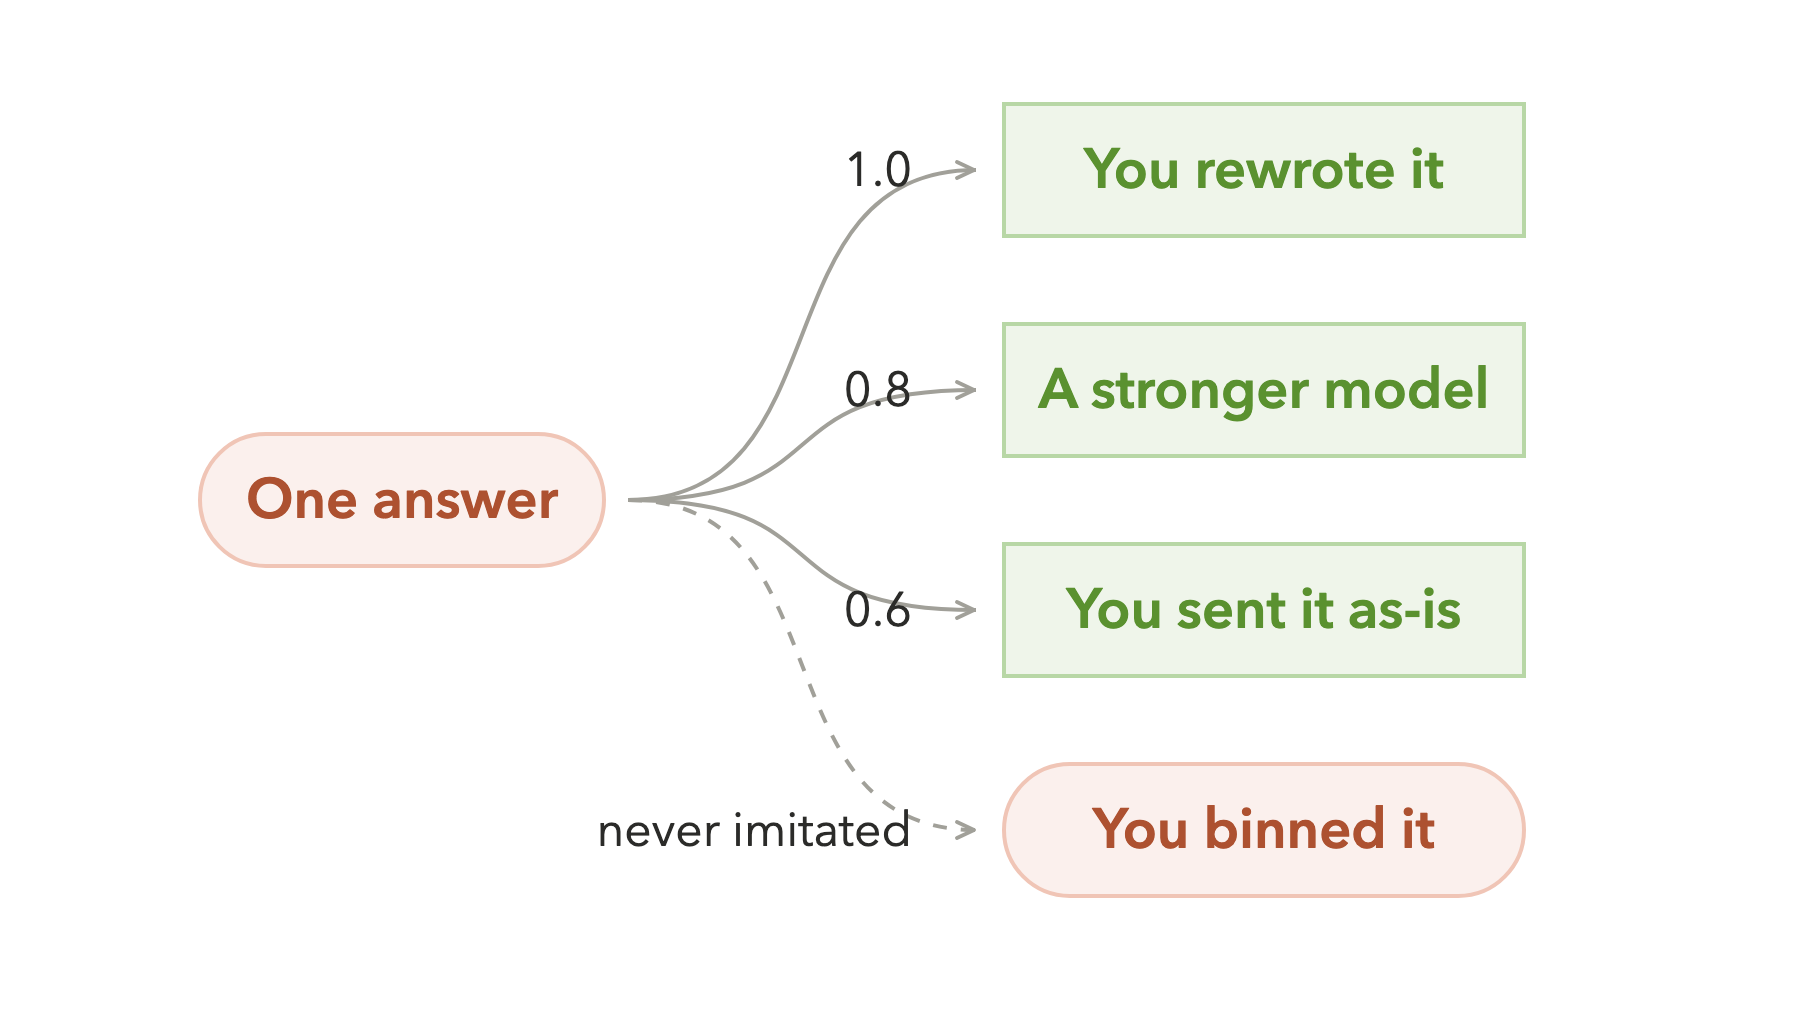
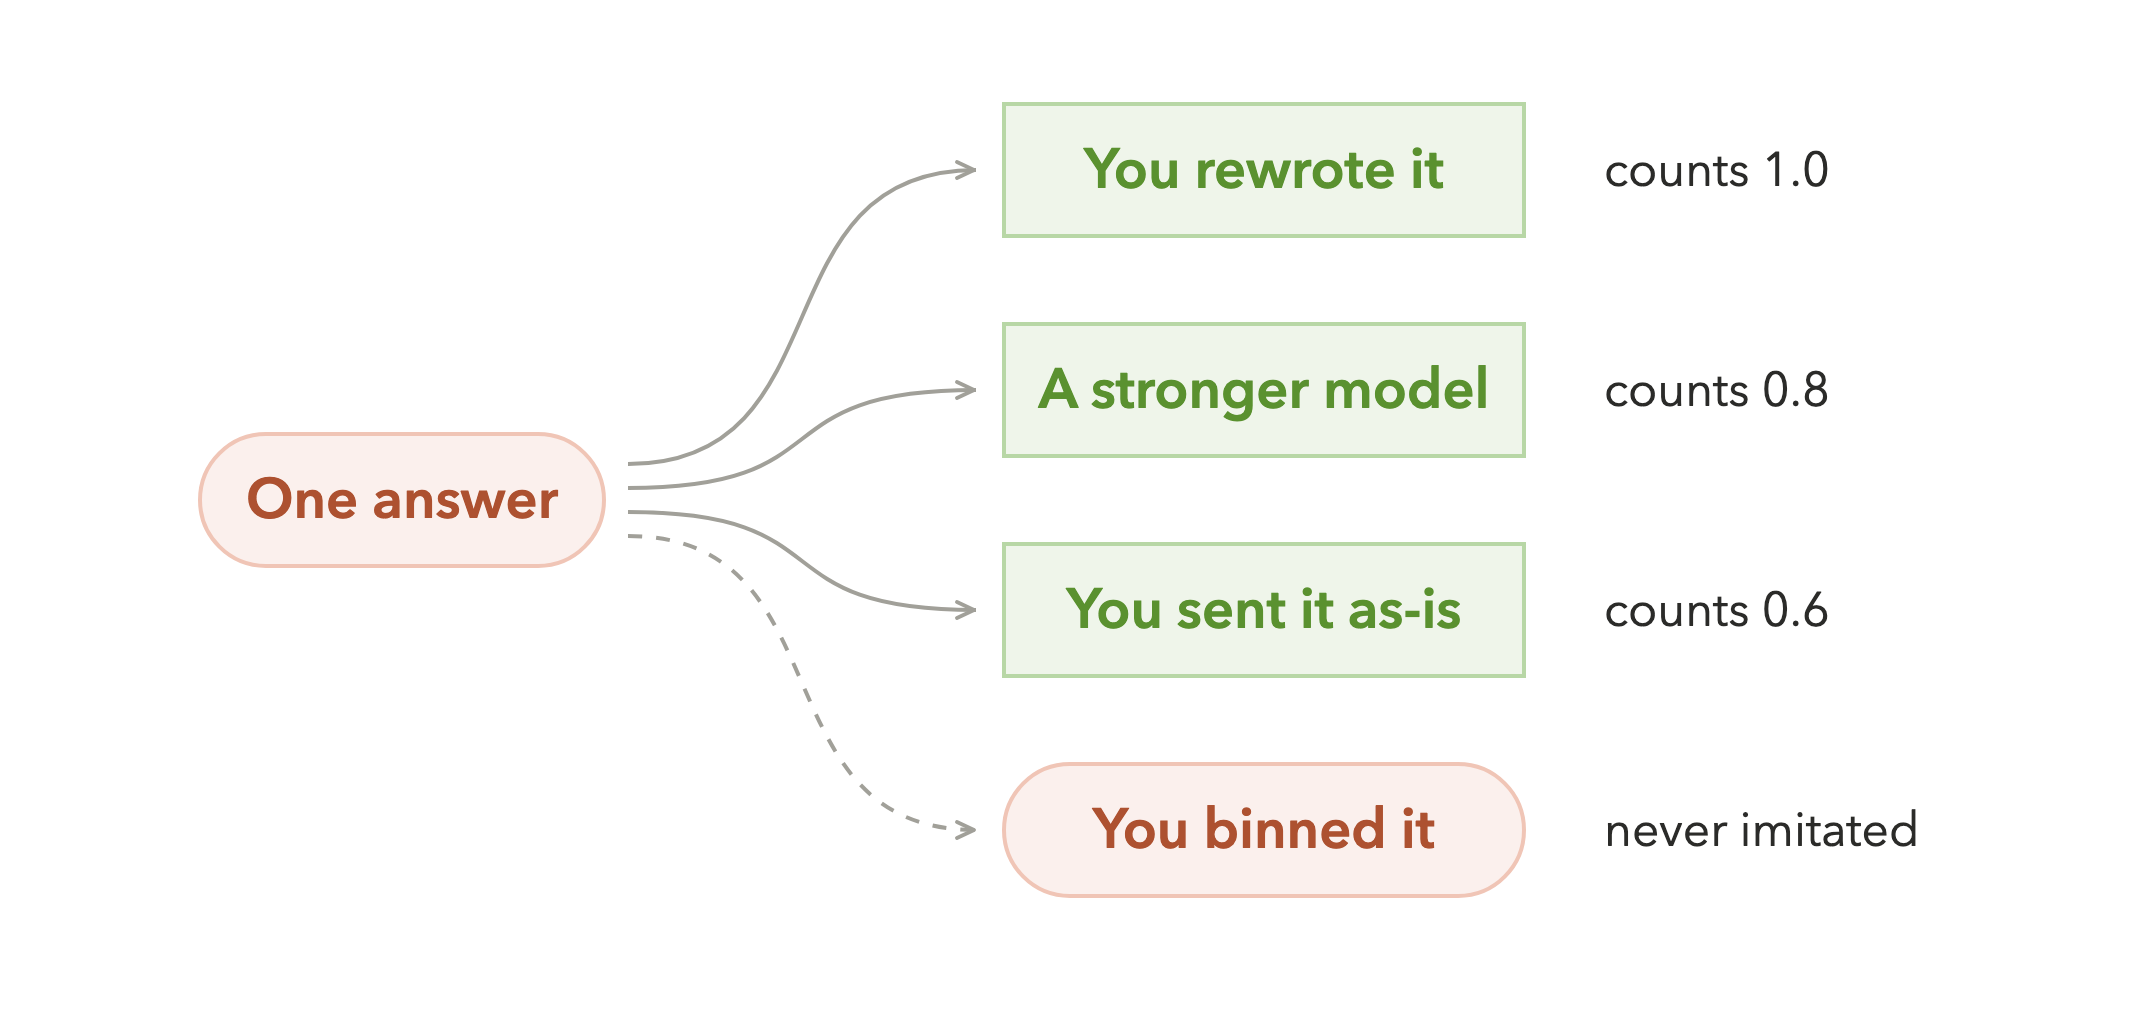
docs: cut the design rationale out of the READMEs; spec the fleet on the front page
Several passages explained why a word or a layout was chosen rather than saying
what the product does — notes-to-self that belong in a commit message or
STYLE.md, not on a page someone reads to decide whether to try this. Cut: the
paragraph justifying "compounding" over "domain-specific" in the flywheel hub,
the aside on why the second loop's station reads "Expert models" against the
plain "Models", "it is drawn as a flywheel rather than a pipeline because",
"be precise about what collapsed, though", and a line telling the reader the
numbers in the table are there to be checked. The substance each carried is
kept; only the commentary on our own choices is gone.

The honest disclosures stay and are reworded to face the reader: group_size 8
is still named as TRL's default that this repo ships unswept.

Flywheel: "Superhuman ability" becomes "Productivity". Every other station is a
concrete noun and a claim sat badly among them; it is also what a buyer calls
this. Not "Employee productivity" — Employees is the next station along, so the
adjacency already says whose.

fig-earns: the weights move from the arrow convergence, where they were
unreadable, to a column past the boxes, and each reads "counts 1.0" so the
column needs no header. Its four tails now leave their own points down the
stadium's edge — from one pixel they formed a shape that read as an arrowhead
pointing back into the answer. Verified against train/capture.py: 1.0 / 0.8 /
[…]

diff --git a/docs/build_figures.py b/docs/build_figures.py
@@ -26,16 +26,36 @@ FGAP = 26        # between machines: close enough that the row reads as one stri
 # and home-grid ordered it differently again. A reader who meets these machines
 # on the front page should recognise the same five, in the same order, in every
 # later figure; three spellings of one fleet reads as three different fleets.
-FLEET = ("MacBook Pro", "Mac Studio", "Mac mini", "RTX 6000", "RTX 5090")
+# Engine, memory and served model belong here too, so the roll-up on the front
+# page can be DERIVED rather than typed — a hand-typed total is a number that
+# goes stale the first time this tuple changes.
+FLEET = (
+    # name           engine     GB   the model it serves
+    ("MacBook Pro",  "MLX",      64, "Qwen3-30B-A3B"),
+    ("Mac Studio",   "MLX",     256, "MiniMax-M2"),
+    ("Mac mini",     "Ollama",   24, "Gemma 3 12B"),
+    ("RTX 6000",     "vLLM",     48, "Qwen3-32B"),
+    ("RTX 5090",     "vLLM",     32, "Gemma 3 27B"),
+)
+NAMES = tuple(name for name, *_ in FLEET)
 
 
-def fleet_row(f, page_w, y):
-    """Draw the fleet centred on the page. Returns each box's centre x."""
+def fleet_row(f, page_w, y, detail=False):
+    """Draw the fleet centred on the page. Returns each box's centre x.
+
+    `detail` hangs the engine, the memory and the served model under each box.
+    Only the front page wants them: there the fleet IS the subject, and a bare
+    row of product names does not say what makes one machine different from the
+    next. Inside the training figures the same row is scenery for an argument
+    about placement, and three extra lines per box would drown it.
+    """
     span = len(FLEET) * MW + (len(FLEET) - 1) * FGAP
     x0 = (page_w - span) / 2
     xs = [x0 + MW / 2 + i * (MW + FGAP) for i in range(len(FLEET))]
-    for cx, name in zip(xs, FLEET):
+    for cx, (name, engine, gb, model) in zip(xs, FLEET):
         f.box(cx, y, name, w=MW)
+        if detail:
+            f.label(cx, y + H / 2 + 38, f"{engine} · {gb} GB", model)
     return xs
 
 
@@ -133,7 +153,7 @@ mcx = gcx + gw / 2 + GAP + MW / 2
 # free machine, and five rows would make the fleet the subject instead. Names
 # come from FLEET so it is visibly a subset, never a different set.
 rows = [y - 120, y, y + 120]
-for ry, name in zip(rows, [FLEET[0], FLEET[1], FLEET[3]]):
+for ry, name in zip(rows, [NAMES[0], NAMES[1], NAMES[3]]):
     f.box(mcx, ry, name, w=MW)
     curve = 0 if ry == y else 64
     off = 14 if ry > y else -14 if ry < y else 0
@@ -180,20 +200,27 @@ tcx = M + tw / 2
 f.term(tcx, cy, "One answer", w=tw)
 BW = 260
 bcx = tcx + tw / 2 + 200 + BW / 2
-rows = [(cy - 165, "You rewrote it", "1.0", False),
-        (cy - 55, "A stronger model", "0.8", False),
-        (cy + 55, "You sent it as-is", "0.6", False),
+# The weights are train/capture.py's, not illustrative: edited 1.0, teacher 0.8,
+# accepted 0.6, discarded stored but never used as a target.
+rows = [(cy - 165, "You rewrote it", "counts 1.0", False),
+        (cy - 55, "A stronger model", "counts 0.8", False),
+        (cy + 55, "You sent it as-is", "counts 0.6", False),
         (cy + 165, "You binned it", "never imitated", True)]
-for ry, label, weight, dashed in rows:
+for i, (ry, label, weight, dashed) in enumerate(rows):
     if dashed:
         f.term(bcx, ry, label, w=BW)
     else:
         f.box(bcx, ry, label, w=BW)
-    # every arrow leaves the same point; the curve alone separates them, as in
-    # the article's parallelisation figure
-    f.arrow(tcx + tw / 2 + 12, cy, bcx - BW / 2 - 14, ry, dashed=dashed, curve=110)
-    # the weight sits against its own row, never floating between two of them
-    f.label(bcx - BW / 2 - 46, ry + 8, weight, anchor="end")
+    # Each leaves its own point down the stadium's edge. All four from one pixel
+    # made a knot at the origin that read as an arrowhead pointing back INTO the
+    # answer — the exact opposite of the direction the figure means.
+    f.arrow(tcx + tw / 2 + 12, cy - 18 + i * 12, bcx - BW / 2 - 14, ry,
+            dashed=dashed, curve=110)
+    # Past the boxes, not before them. Four arrows converge on the left edge and
+    # a number parked in that convergence is unreadable at any size; to the right
+    # the four stack into a column that scans on its own, and "counts" on each
+    # row means the column needs no header to say what it measures.
+    f.label(bcx + BW / 2 + 40, ry + 8, weight, anchor="start")
 f.write(f"{OUT}/fig-earns.svg")
 
 # ------------------------------------------------------- train-architecture
@@ -278,8 +305,10 @@ f = Fig(1700, 1180)
 CX, CY, R = 800, 680, 400
 INK = ARROW   # grey, never black — docs/STYLE.md section 1
 
-# "Ability", not "work": the superhuman part belongs to the person. "Superhuman
-# work" can be read as the AI doing the work, which is the opposite of the claim.
+# "Productivity", not "Superhuman ability": every other station on this wheel is
+# a concrete noun, and a claim sits badly among them. It is also what a buyer
+# actually calls this. Not "Employee productivity" — Employees is the very next
+# station, so the adjacency already says whose.
 #
 # Nouns, not quantities. The reference says Sellers, Selection, Traffic — never
 # "more sellers" — because a flywheel already means "more of this drives more of
@@ -288,7 +317,7 @@ INK = ARROW   # grey, never black — docs/STYLE.md section 1
 # what you already own, purple is the intelligence layer, coral is the human edge.
 f.wheel(CX, CY, R, [
     ("Models", PURPLE_TEXT),
-    ("Superhuman ability", CORAL_TEXT),
+    ("Productivity", CORAL_TEXT),
     ("Employees", CORAL_TEXT),
     ("Computers", GREEN_TEXT),
 ], hub_r=240, hub_lines=("COMPOUNDING", "INTELLIGENCE"), fs=CORE_FS, start=0,
@@ -386,15 +415,20 @@ for i, a in enumerate(APPS):
     f.term(cx, app_y, a, w=aw4)
     app_x.append(cx)
 
-gy = 344
-f.panel(M, 1660 - M, gy, "Your grid", ["Inference", "Training"])
+gy = 372
+PH = 240
+# Derived, never typed: these three go stale the moment FLEET changes otherwise.
+STATS = [f"{len(FLEET)} nodes",
+         f"{len({model for *_, model in FLEET})} models",
+         f"{sum(gb for _, _, gb, _ in FLEET)} GB GPU memory"]
+f.panel(M, 1660 - M, gy, "Your grid", STATS, ["Inference", "Training"], h=PH)
 for cx in app_x:
-    f.arrow(cx, gy - 176 / 2 - 12, cx, app_y + H / 2 + 14)
+    f.arrow(cx, gy - PH / 2 - 12, cx, app_y + H / 2 + 14)
 
-mach_y = 624
-for cx in fleet_row(f, 1660, mach_y):
-    f.arrow(cx, mach_y - H / 2 - 12, cx, gy + 176 / 2 + 14)
-f.label(1660 / 2, mach_y + 78, "MLX · Ollama · vLLM · LM Studio · ComfyUI — the engines you already run")
+mach_y = 650
+for cx in fleet_row(f, 1660, mach_y, detail=True):
+    f.arrow(cx, mach_y - H / 2 - 12, cx, gy + PH / 2 + 14)
+f.label(1660 / 2, mach_y + H / 2 + 128, "each machine keeps the engine it already runs")
 f.write(f"{OUT}/home-grid.svg")
 
 print("wrote nine figures")

diff --git a/docs/figs.py b/docs/figs.py
@@ -130,30 +130,44 @@ class Fig:
             f'font-size="{NODE_FS}" font-weight="600">{label}</text>')
         self._saw(x2, cy + H / 2)
 
-    def panel(self, x1, x2, cy, title, halves, h=176):
-        """One thing with two halves inside it.
+    def panel(self, x1, x2, cy, title, stats, halves, h=240):
+        """One thing with two halves inside it, and what it knows about itself.
 
         The only container in the set, and it earns being one: the grid is a
         single address, and serving and training are two jobs it does — drawing
         them as three peers would say there are three things.
+
+        The title and its roll-up sit left; the halves take every pixel that is
+        left over, because the halves are the product and the roll-up is a
+        caption on it. Centring a title over two small boxes made the container
+        look like the subject — it is not, the two jobs it does are.
         """
+        top = cy - h / 2
         self.parts.append(
-            f'<rect x="{x1:.0f}" y="{cy - h / 2:.0f}" width="{x2 - x1:.0f}" height="{h}" '
+            f'<rect x="{x1:.0f}" y="{top:.0f}" width="{x2 - x1:.0f}" height="{h}" '
             f'fill="{PURPLE_FILL}" stroke="{PURPLE_LINE}" stroke-width="{BORDER}"/>')
+
+        lx = x1 + 54
         self.parts.append(
-            f'<text x="{(x1 + x2) / 2:.0f}" y="{cy - h / 2 + 42:.0f}" text-anchor="middle" '
-            f'fill="{PURPLE_TEXT}" font-size="{NODE_FS}" font-weight="700">{title}</text>')
-        iw = max(box_w(t) for t in halves) + 96
-        gap = 44
-        left = (x1 + x2) / 2 - (len(halves) * iw + (len(halves) - 1) * gap) / 2
+            f'<text x="{lx:.0f}" y="{top + 68:.0f}" fill="{PURPLE_TEXT}" '
+            f'font-size="{NODE_FS}" font-weight="700">{title}</text>')
+        for i, line in enumerate(stats):
+            self.parts.append(
+                f'<text x="{lx:.0f}" y="{top + 118 + i * 34:.0f}" fill="{LABEL_TEXT}" '
+                f'font-size="{LABEL_FS}">{line}</text>')
+
+        lw = max([text_w(title, NODE_FS)] + [text_w(s, LABEL_FS) for s in stats])
+        bx0, bx1, gap = lx + lw + 86, x2 - 54, 40
+        bw = (bx1 - bx0 - gap * (len(halves) - 1)) / len(halves)
+        bh = h - 76
         for i, t in enumerate(halves):
-            cx = left + iw / 2 + i * (iw + gap)
+            cx = bx0 + bw / 2 + i * (bw + gap)
             self.parts.append(
-                f'<rect x="{cx - iw / 2:.0f}" y="{cy + 6:.0f}" width="{iw:.0f}" height="{H}" '
-                f'fill="#fff" stroke="{PURPLE_LINE}" stroke-width="{BORDER}"/>')
+                f'<rect x="{cx - bw / 2:.0f}" y="{cy - bh / 2:.0f}" width="{bw:.0f}" '
+                f'height="{bh:.0f}" fill="#fff" stroke="{PURPLE_LINE}" stroke-width="{BORDER}"/>')
             self.parts.append(
-                f'<text x="{cx:.0f}" y="{cy + 6 + 42:.0f}" text-anchor="middle" '
-                f'fill="{PURPLE_TEXT}" font-size="{NODE_FS}" font-weight="600">{t}</text>')
+                f'<text x="{cx:.0f}" y="{cy + 13:.0f}" text-anchor="middle" '
+                f'fill="{PURPLE_TEXT}" font-size="{CORE_FS}" font-weight="700">{t}</text>')
         self._saw(x2, cy + h / 2)
 
     def axis(self, x1, x2, y, ticks):

diff --git a/train/README.md b/train/README.md
@@ -15,12 +15,12 @@ information was never on the internet to begin with. It is sitting in your syste
 Domain-specific intelligence is what is on the other side of that gap: a small model that has seen
 how your work actually goes — **an expert in your work rather than a generalist**. It is worse than
 the frontier at everything and better than the frontier at your thing, which is the trade you want,
-because most of what your team does all day is your thing. The weights are yours, so nobody deprecates them, reprices them or swaps them out from
-under you. And the data they learned from never left the building.
+because most of what your team does all day is your thing. The weights are yours, so nobody
+deprecates them, reprices them or swaps them out from under you. And the data they learned from
+never left the building.
 
-That is the *why*. The rest of this page is the *how*, and it is drawn as a flywheel rather than a
-pipeline because an expert you own, unlike a model you rent, **compounds** — every night's work is
-the next night's training set.
+That is the *why*. The rest of this page is the *how*. An expert you own, unlike a model you rent,
+**compounds** — every night's work is the next night's training set.
 
 ## How the training plane works
 
@@ -54,10 +54,10 @@ three is most of the intuition. Here is the same loop with our names on it:
 
 **1 — The episode is short.** Classic RL imagines a long trajectory: move, observe, move again. For
 most business tasks there is one prompt, one answer, and **one reward at the end** — no intermediate
-scoring to design, and nothing to shape. Be precise about what collapsed, though: the *scoring* did,
-not the decision. The model still chooses token by token and the gradient still lands per token —
-TRL gives every token in a completion that completion's own group-relative advantage. Long
-trajectories return the moment agents use tools, which is why the design leaves room for them.
+scoring to design, and nothing to shape. What collapsed is the *scoring*, not the decision. The
+model still chooses token by token and the gradient still lands per token — TRL gives every token
+in a completion that completion's own group-relative advantage. Long trajectories return the moment
+agents use tools, which is why the design leaves room for them.
 
 **2 — The environment is your data plus a check.** There is no simulator to build. The environment
 is a ticket from last month and how it actually resolved; a lead and whether it closed; a code
@@ -81,10 +81,10 @@ maths, is the hard part of this product. You will spend your time on the grader.
 ## 3. Sampling is 70–82% of the work, and it fans out perfectly
 
 Count the compute in that step. Writing eight attempts runs the model eight times; adjusting the
-weights happens once. (Eight is `group_size`, and it is TRL's default rather than a number we
-derived — the algorithm only requires two, since the baseline is the group's own mean. It is the
-whole cost dial, and nobody has swept it here.) Profiling across the field puts sampling at 70–82% of the total, and sampling
-is plain inference — which a grid already spreads across machines.
+weights happens once. (Eight is `group_size` — TRL's default. The algorithm needs only two, since
+the baseline is the group's own mean, and it is the whole cost dial; this repo ships that default
+unswept.) Profiling across the field puts sampling at 70–82% of the total, and sampling is plain
+inference — which a grid already spreads across machines.
 
 Our own runs come out higher. Every run now times its two phases and writes the split into its
 `summary.json`, and on an M2 Max sampling is **86–92%** of the work a grid could divide — 48s of
@@ -166,8 +166,7 @@ suite. Score is on **held-out work the model never trained on**, re-measured eve
 | two machines | every 5 steps | 40 | 0.188 → 0.261 | 5.2 min | under the bar |
 | two machines | **never** | 30 | 0.188 → 0.188 | 3.6 min | learned nothing |
 
-Two of those readings are in the heading, and the numbers are there to be checked: the two-machine
-run finished ahead of the single-machine one, and the same topology learned roughly eight times
+The two-machine run finished ahead of the single-machine one, and the same topology learned roughly eight times
 less per step at a five-step cadence. The last row is the one to remember. With no push at all the
 line is perfectly flat — and a perfectly flat line is what a broken training loop looks like from
 outside.
@@ -306,27 +305,21 @@ curl $GRID/v1/feedback -d '{"request_id":"…","verdict":"edited","final_text":"
 ## The flywheel
 
 <p align="center">
-<img src="../docs/fig-flywheel.png" width="820" alt="A flywheel around a hub reading COMPOUNDING INTELLIGENCE. The ring turns clockwise from the top: computers, models, superhuman ability, employees, and back to computers. Computers has two outgoing arrows, marked serve and train. A second loop forks off the wheel at employees, marked connect, and runs over the top — your systems, then your data, then expert models — before rejoining the wheel at models.">
+<img src="../docs/fig-flywheel.png" width="820" alt="A flywheel around a hub reading COMPOUNDING INTELLIGENCE. The ring turns clockwise from the top: computers, models, productivity, employees, and back to computers. Computers has two outgoing arrows, marked serve and train. A second loop forks off the wheel at employees, marked connect, and runs over the top — your systems, then your data, then expert models — before rejoining the wheel at models.">
 </p>
 
-The hub says *compounding* rather than *domain-specific* for a reason worth stating: a wheel
-turning around a static noun does not say the noun is growing. What compounds is the intelligence
-specific to you — and *that* is on the rim, at the station where those models get made.
-
-**The ring is the whole business in four words.** Computers run models. Models give people
-superhuman ability. That ability is what a company grows on, so it brings employees. Employees
-arrive carrying the next computers.
-Capacity grows with the team rather than with the bill, and that is the part a cloud product
-structurally cannot copy — its capacity is rented, and this walks in the door.
+**The ring is the whole business in four words.** Computers run models. Models make people more
+productive. Productivity is what a company grows on, so it brings employees. Employees arrive
+carrying the next computers. Capacity grows with the team rather than with the bill — the part a
+cloud product structurally cannot copy, because its capacity is rented and this walks in the door.
 
 **The second loop is the way to more models that buys no hardware.** It leaves from the employees,
 because they are the ones who connect a system — the cheapest thing on this page, and what turns a
-general model into one that knows your tickets, your repos, your deals. That data is not one undifferentiated pile — it arrives sorted by the job
-that produced it, which is what makes a model *for that job* possible rather than one model asked
-to be good at everything. Those are models too — which is why the loop rejoins the wheel at
-models, and why that station reads **Expert models** against the plain **Models** on the rim: not a
-different kind of thing, a narrower and better one. What it skips is the single station that needs
-somebody to buy something.
+general model into one that knows your tickets, your repos, your deals. That data is not one
+undifferentiated pile: it arrives sorted by the job that produced it, which is what makes a model
+*for that job* possible rather than one model asked to be good at everything. Expert models are
+models too, so the loop rejoins the wheel where the plain ones are — narrower and better, not a
+different kind of thing. What it skips is the single station that needs somebody to buy something.
 
 ## The code
 

diff --git a/README.md b/README.md
@@ -11,7 +11,7 @@
 
 [**Quickstart**](#quickstart) · [Inference](#inference) · [Training](#training) · [How it works](#how-it-works) · [CLI reference](docs/cli.md) · [Contributing](#contributing)
 
-<img src="docs/home-grid.png" alt="Grid Desktop, OpenClaw, Hermes and your own app all draw from one grid. The grid is a single box with two halves inside it — inference and training. Underneath, the computers you already own — a Mac Studio, a Mac mini, an RTX 6000, a MacBook Pro, an RTX 5090 — join it, running MLX, Ollama, vLLM, LM Studio and ComfyUI." width="860">
+<img src="docs/home-grid.png" alt="Grid Desktop, OpenClaw, Hermes and your own app all draw from one grid. The grid is a single box holding two halves — inference and training — beside a roll-up of what it adds up to: 5 nodes, 5 models, 424 GB of GPU memory. Underneath, the computers you already own join it, each keeping the engine it already runs: a MacBook Pro on MLX with 64 GB serving Qwen3-30B-A3B, a Mac Studio on MLX with 256 GB serving MiniMax-M2, a Mac mini on Ollama with 24 GB serving Gemma 3 12B, an RTX 6000 on vLLM with 48 GB serving Qwen3-32B, and an RTX 5090 on vLLM with 32 GB serving Gemma 3 27B." width="860">
 
 </div>
 
